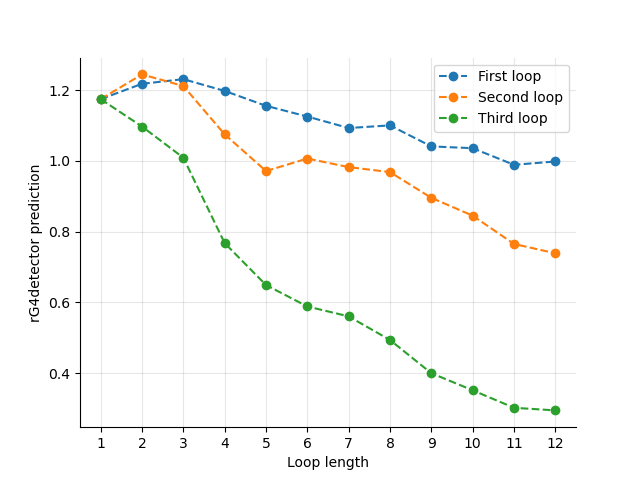
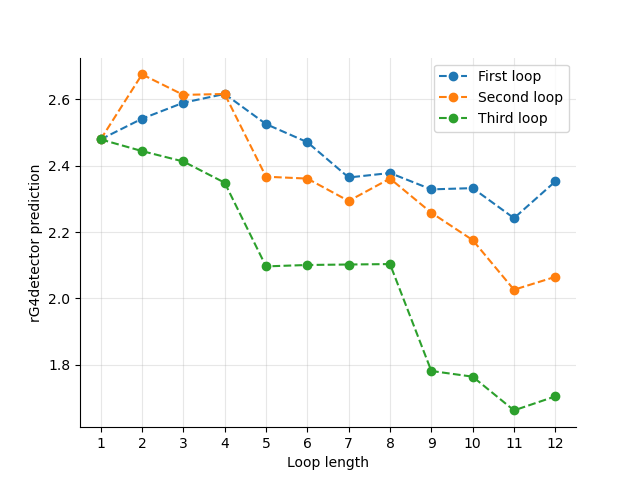
...

diff --git a/code/find_optimal_input_size.py b/code/find_optimal_input_size.py
@@ -58,6 +58,7 @@ def main(hyper_params, iterations, debug):
     scores = []
     rng = range(70, 240, 10) if not debug else range(70, 90, 10)
     for s in rng:
+        print(f"size = {s}")
         hyper_params.input_size = s
         [x_train_i, x_val_i] = set_data_size(s, [x_train, x_val])
         corr_list = []
@@ -67,6 +68,7 @@ def main(hyper_params, iterations, debug):
             hyper_params.seed = random.randint(1, 1000)
             pr_corr, model = evaluate_model(x_train_i, y_train, x_val_i, y_val, hyper_params)
             corr_list.append(pr_corr)
+        print(f"correlation = {sum(corr_list)/len(corr_list)} +-{np.std(corr_list)}")
         scores.append(sum(corr_list)/len(corr_list))
         print(f"Finished {s}- execution time = %ss ---\n\n" % (round(time.time() - it_time)))
 

diff --git a/code/interpretation.py b/code/interpretation.py
@@ -216,7 +216,7 @@ def loc_check(model, data_size):
 
 def main(model, output):
     data_size = get_input_size(model)
-    # loc_check(model, data_size)
+    loc_check(model, data_size)
     # exit(0)
     loop_length_test(model, data_size, output)
     loop_length_test2(model, data_size, output)
